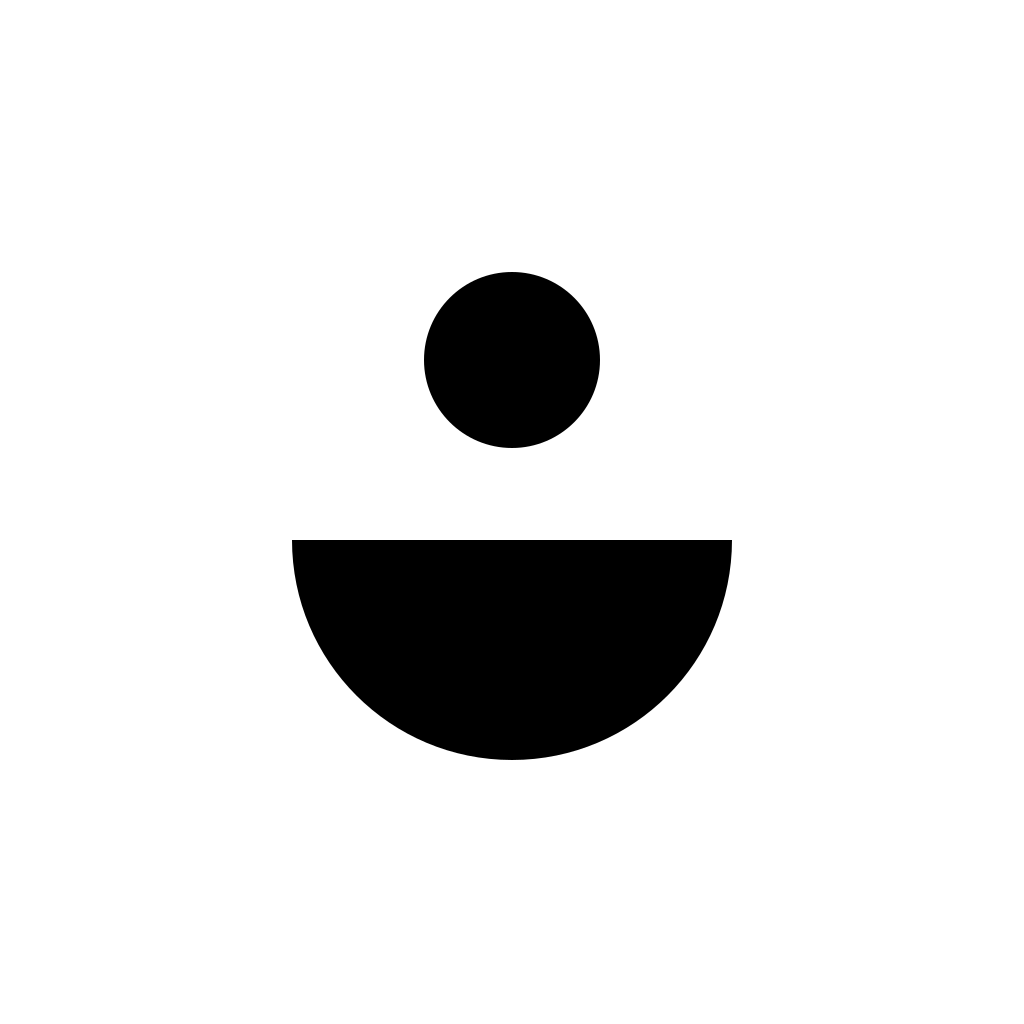
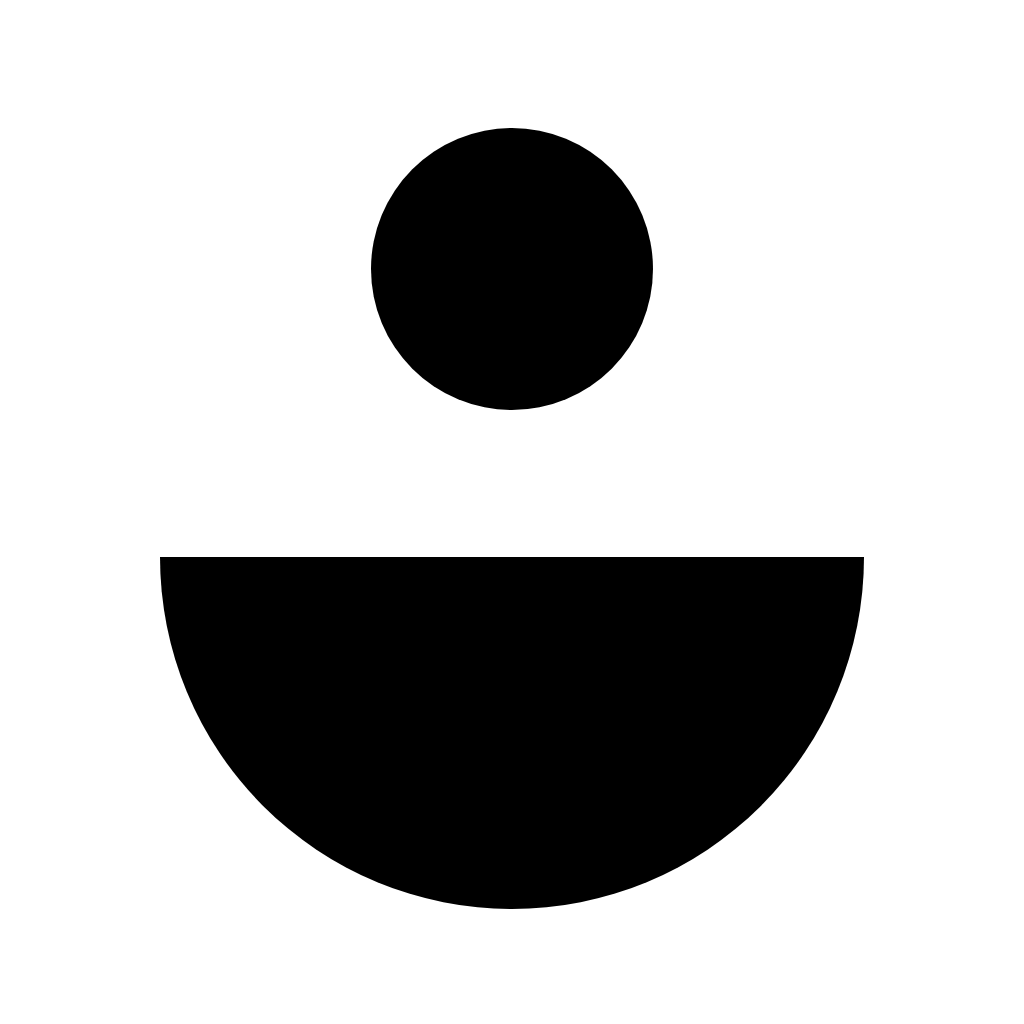
fix: 앱 아이콘 로고 크기 확대 (여백 축소)
app-icon-source.svg의 원·반원 마크를 약 1.6배 키워서 홈 화면 아이콘의
과도한 여백을 줄임. 180/192/512/1024 전 사이즈 재생성, 서비스워커 캐시도
v5로 올려 기존 방문자에게도 새 아이콘이 반영되도록 함.

Changed region(s): [[0.1562, 0.5, 0.8438, 0.9062], [0.3438, 0.125, 0.6562, 0.4375]]

diff --git a/sw.js b/sw.js
@@ -1,4 +1,4 @@
-const CACHE = 'gaeo-shell-v4';
+const CACHE = 'gaeo-shell-v5';
 const SHELL = [
   './',
   './index.html',
